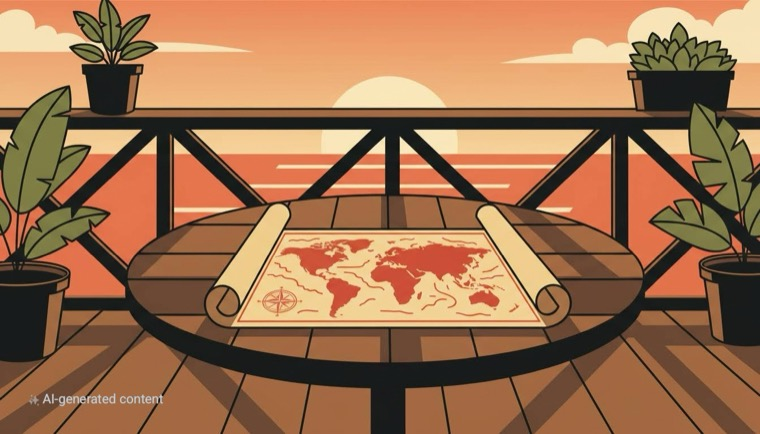
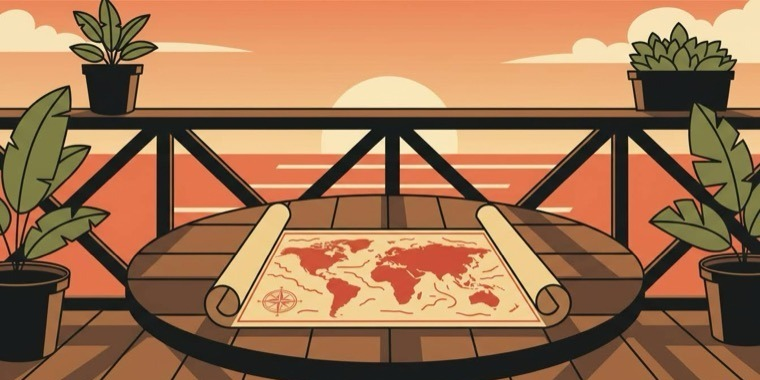
Crop AI-watermark off harita.jpg, put all 6 Lunapark cards in one row
harita.jpg had an uncropped "AI-generated content" label baked into
the bottom-left corner, visible on both the hub's Harita card and the
new Güverte card — cropped it out and cache-busted the reference so
returning visitors don't see a stale cached copy.

Lunapark cards were wrapping to two rows of three; user wanted a
single row. Forced 6 columns at desktop width and tightened padding,
font sizes, and line-clamp so text stays legible at the narrower card
width; the two-link category pills (Güverte/Sinema/Kuş/Bitki) now
stack vertically instead of side-by-side since they no longer fit a
horizontal pair at this width. Falls back to 3/2/1 columns on smaller
screens same as before.

diff --git a/oyunlar/index.html b/oyunlar/index.html
@@ -21,15 +21,25 @@
 .oyunlar-bas h1{font-family:'Playfair Display',Georgia,serif;font-weight:800;
   font-size:clamp(34px,6vw,60px);color:var(--ink,#221C16);letter-spacing:-.5px;line-height:1.02}
 .oyunlar-bas p{color:var(--muted,#6E6353);font-style:italic;font-size:clamp(14px,1.7vw,18px);margin-top:8px}
-.grup-bas{margin-bottom:6px}
+.grup-bas{margin-bottom:5px;font-size:16px}
 .grup-bas a{color:inherit;text-decoration:none;border-bottom:1px dashed var(--acc,#C2331F)}
 .grup-bas a:hover{color:var(--acc,#C2331F)}
 
-/* alt-oyun bağlantı çubuğu (bir kategori birden fazla ayrı sayfayı topluyorsa) */
-.alt-oyunlar{display:flex;gap:8px;margin-top:10px}
-.alt-oyunlar a{flex:1;text-align:center;border:1px solid var(--line);border-radius:9px;padding:8px 4px;
-  font-size:13px;color:var(--acc);text-decoration:none;font-family:'Libre Baskerville',Georgia,serif}
+/* altı kart tek sırada — dar kart için sıkı ama okunur ölçüler */
+body.vitrin .kartlar{grid-template-columns:repeat(6,1fr);gap:12px}
+body.vitrin .kart{padding:12px}
+body.vitrin .kart .kart-gorsel{margin:-12px -12px 10px}
+body.vitrin .kart p{font-size:12.5px;line-height:1.4;display:-webkit-box;-webkit-line-clamp:3;-webkit-box-orient:vertical;overflow:hidden}
+
+/* alt-oyun bağlantı çubuğu (bir kategori birden fazla ayrı sayfayı topluyorsa) — dar kartta alt alta */
+.alt-oyunlar{display:flex;flex-direction:column;gap:5px;margin-top:8px}
+.alt-oyunlar a{text-align:center;border:1px solid var(--line);border-radius:8px;padding:6px 4px;
+  font-size:12px;color:var(--acc);text-decoration:none;font-family:'Libre Baskerville',Georgia,serif;white-space:nowrap;overflow:hidden;text-overflow:ellipsis}
 .alt-oyunlar a:hover{background:var(--acc-soft,rgba(194,51,31,.08));border-color:var(--acc)}
+
+@media(max-width:1100px){body.vitrin .kartlar{grid-template-columns:repeat(3,1fr)}}
+@media(max-width:640px){body.vitrin .kartlar{grid-template-columns:1fr 1fr}}
+@media(max-width:420px){body.vitrin .kartlar{grid-template-columns:1fr}}
 </style>
 </head>
 <body class="vitrin">
@@ -54,7 +64,7 @@
           <div class="kart">
             <h2 class="grup-bas">Güverte</h2>
             <a href="../atlas/">
-              <div class="kart-gorsel"><img src="../gorsel/harita.jpg" alt="antika harita" loading="lazy"></div>
+              <div class="kart-gorsel"><img src="../gorsel/harita.jpg?v=2" alt="antika harita" loading="lazy"></div>
             </a>
             <p>Coğrafya oyunları: ülke, il, bayrak.</p>
             <div class="alt-oyunlar">

diff --git a/index.html b/index.html
@@ -297,7 +297,7 @@
         <p>Bulanık kareden günün filmini bul; Jenerik'te oyuncunun filmlerini say.</p>
       </a>
       <a class="kart" href="harita/">
-        <div class="kart-gorsel"><img src="gorsel/harita.jpg" alt="antika harita" loading="lazy"></div>
+        <div class="kart-gorsel"><img src="gorsel/harita.jpg?v=2" alt="antika harita" loading="lazy"></div>
         <h2>Harita</h2>
         <p>Coğrafya oyunları: Atlas (3×3 ızgara) ve Sancak (bayrak).</p>
       </a>
